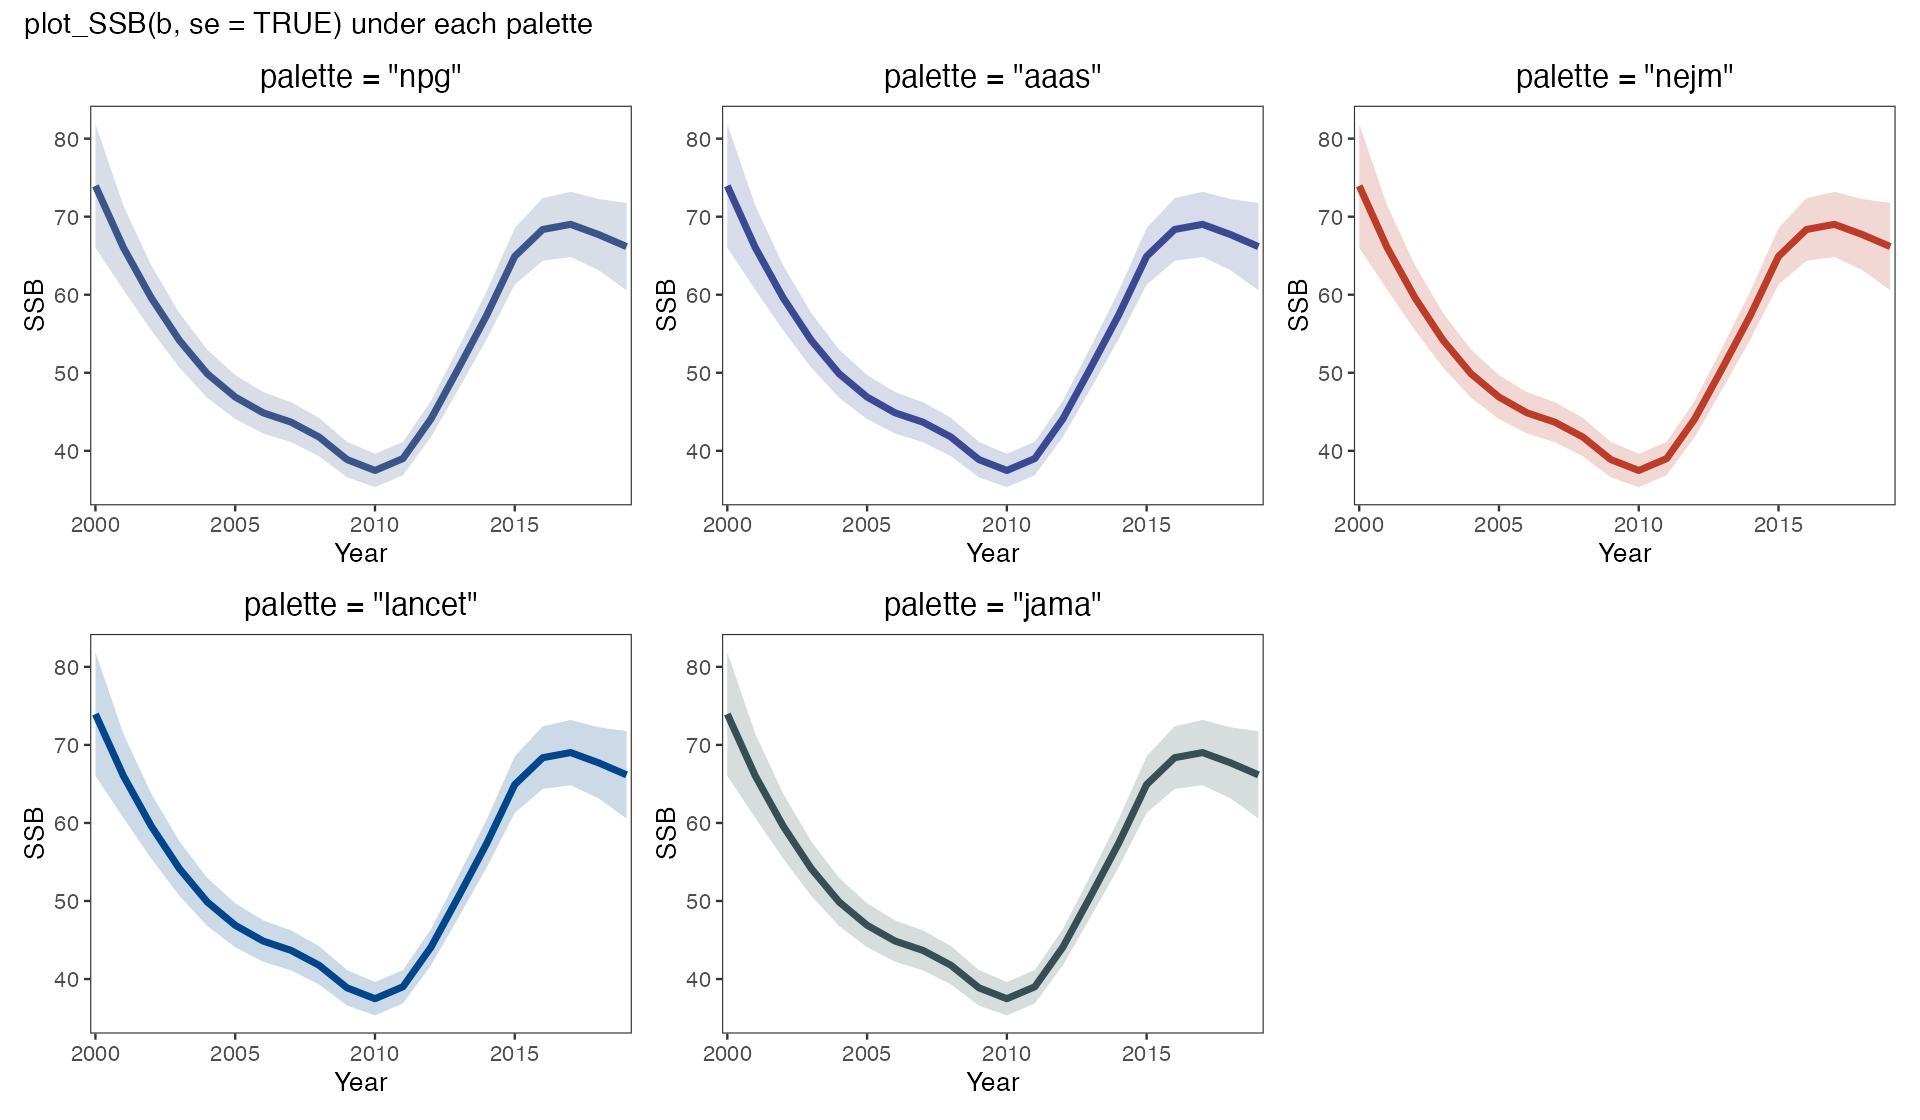
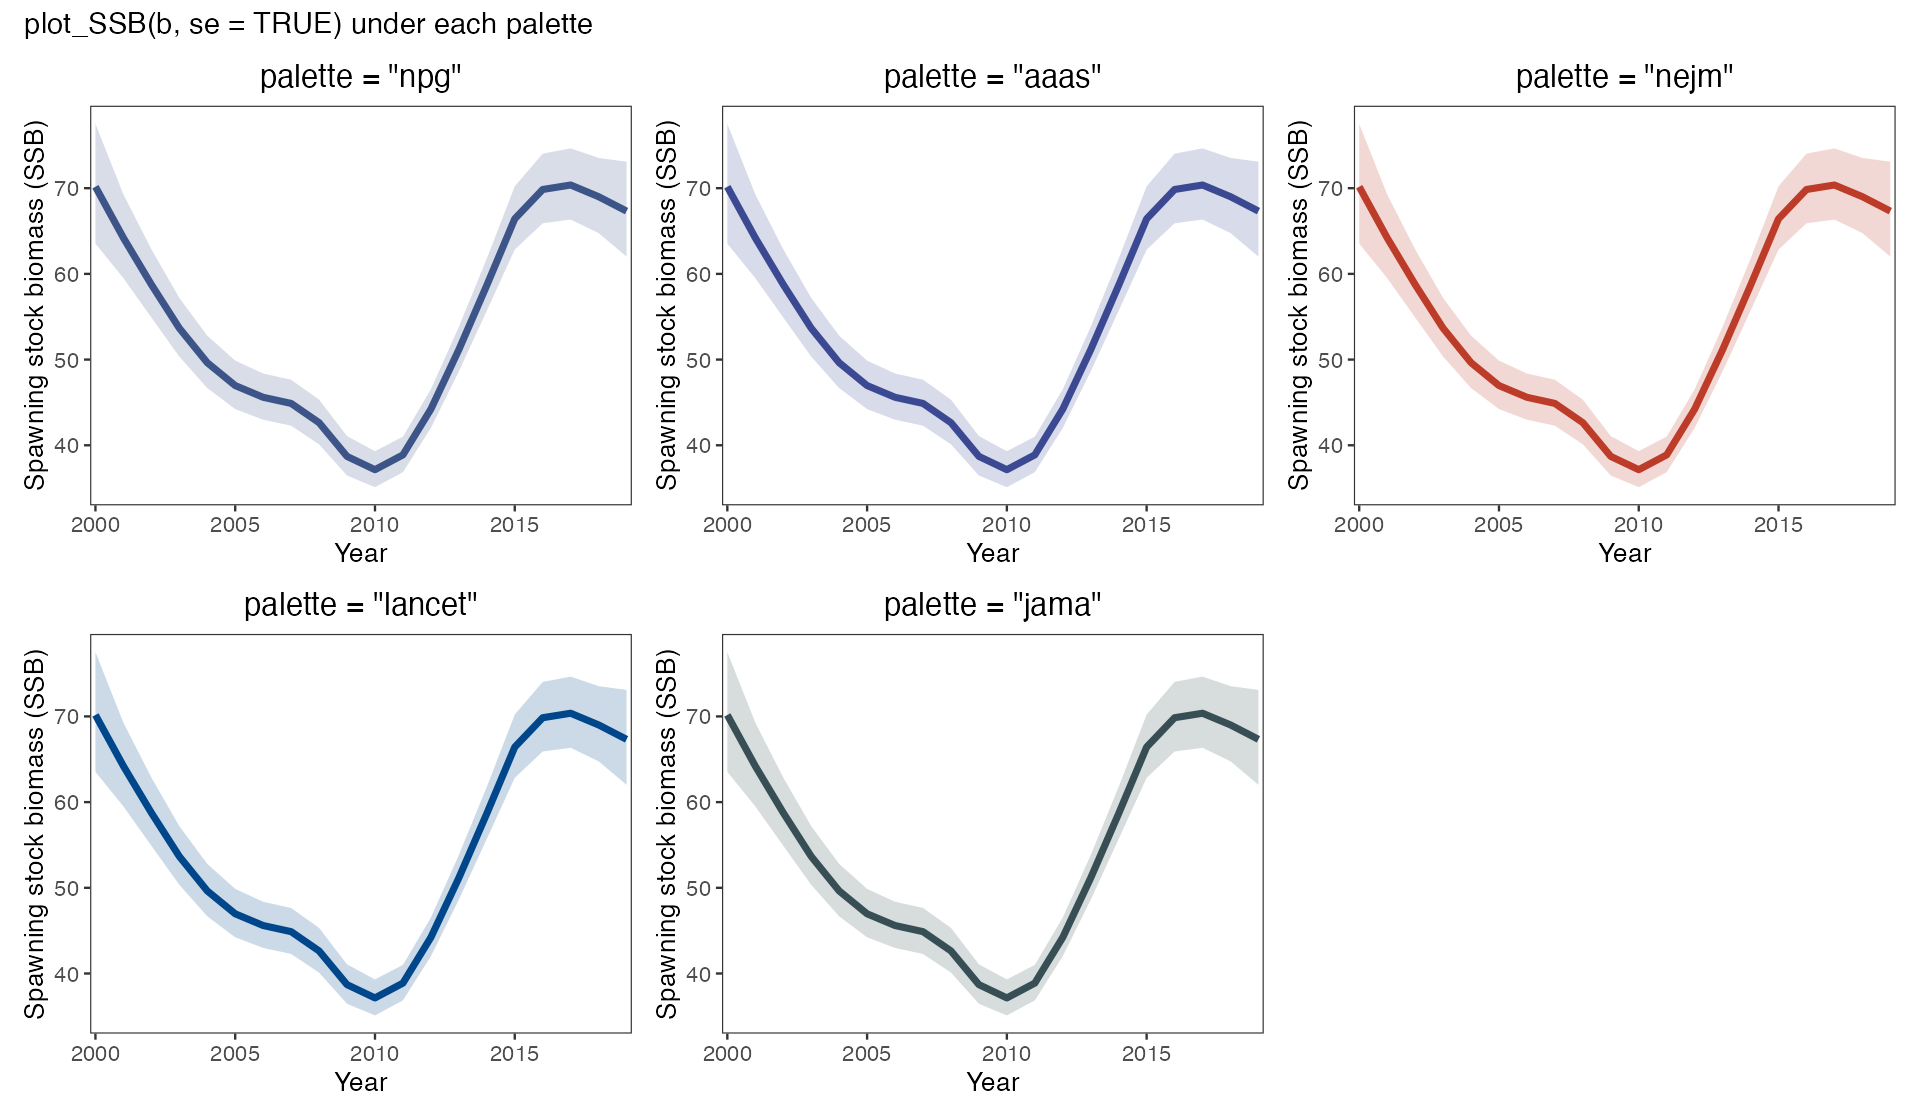
Redraw the palette and sparse-panel figures from the regenerated fits

Changed region(s): [[0.0, 0.0938, 1.0, 0.4375], [0.0, 0.5938, 0.5625, 0.9062], [0.5625, 0.5938, 0.6562, 0.8125]]

diff --git a/docs/BOOK.md b/docs/BOOK.md
@@ -1632,7 +1632,7 @@ plot_SSB(one_period, se = TRUE, x_breaks = one_period$year) +
   ggplot2::coord_cartesian(xlim = one_period$year + c(-0.5, 0.5))
 ```
 
-![Displaying a single saved estimate](https://github.com/FanZhang-LAB-SHOU/ALSCL/blob/main/docs/figures/sparse-panels/single-period-SSB.png?raw=true&v=f0e874a94dee)
+![Displaying a single saved estimate](https://github.com/FanZhang-LAB-SHOU/ALSCL/blob/main/docs/figures/sparse-panels/single-period-SSB.png?raw=true&v=654007fc5aa0)
 
 
 
@@ -2072,7 +2072,7 @@ plot_ridges(ridge_example, ridges_scale = 1,
   x_breaks = seq(10, 90, 20))
 ```
 
-![Missing boundary length bins](https://github.com/FanZhang-LAB-SHOU/ALSCL/blob/main/docs/figures/sparse-panels/ridges-missing-edges.png?raw=true&v=b91666c9a782)
+![Missing boundary length bins](https://github.com/FanZhang-LAB-SHOU/ALSCL/blob/main/docs/figures/sparse-panels/ridges-missing-edges.png?raw=true&v=b5f6fb20bdef)
 
 
 
@@ -2686,7 +2686,7 @@ The default palette is ggsci NPG: navy estimates, vermilion observations, and na
 
 The figure shows the five palettes `acl_theme_set()` accepts. In each row the first labelled colour draws lines, intervals and points of single-model plots, the second draws observations and the second model in comparisons, and the third draws smoothers; the remaining colours are used in order when a plot needs more groups, for example the peels of a retrospective. The next figure shows the same comparison plot under every palette, so you can pick one by eye; `docs/figures/palettes/ssb_by_palette.png` in the repository shows a single-model plot in the same way.
 
-![各色板下的 plot_compare_ts(a, b, quantities = "SSB", se = TRUE) / plot_compare_ts(a, b, quantities = "SSB", se = TRUE) under each palette](https://github.com/FanZhang-LAB-SHOU/ALSCL/blob/main/docs/figures/palettes/compare_by_palette.png?raw=true&v=a267f422e5a1)
+![各色板下的 plot_compare_ts(a, b, quantities = "SSB", se = TRUE) / plot_compare_ts(a, b, quantities = "SSB", se = TRUE) under each palette](https://github.com/FanZhang-LAB-SHOU/ALSCL/blob/main/docs/figures/palettes/compare_by_palette.png?raw=true&v=d601aa110dce)
 
 | 设置 / Setting | 范围与优先级 / Scope and precedence |
 |---|---|
@@ -2927,7 +2927,7 @@ acl_theme()
 acl_theme("line_color")
 ```
 
-![示例图 / Example figure: `plot_SSB(b, se = TRUE) under each palette of acl_theme_set()`](https://github.com/FanZhang-LAB-SHOU/ALSCL/blob/main/docs/figures/palettes/ssb_by_palette.png?raw=true&v=3e6eab644390)
+![示例图 / Example figure: `plot_SSB(b, se = TRUE) under each palette of acl_theme_set()`](https://github.com/FanZhang-LAB-SHOU/ALSCL/blob/main/docs/figures/palettes/ssb_by_palette.png?raw=true&v=51b0d14a0b2a)
 
 <a id="acl_theme_reset"></a>
 ## `acl_theme_reset()`

diff --git a/docs/wiki/13-Colors-and-Export.md b/docs/wiki/13-Colors-and-Export.md
@@ -42,7 +42,7 @@ The default palette is ggsci NPG: navy estimates, vermilion observations, and na
 
 The figure shows the five palettes `acl_theme_set()` accepts. In each row the first labelled colour draws lines, intervals and points of single-model plots, the second draws observations and the second model in comparisons, and the third draws smoothers; the remaining colours are used in order when a plot needs more groups, for example the peels of a retrospective. The next figure shows the same comparison plot under every palette, so you can pick one by eye; `docs/figures/palettes/ssb_by_palette.png` in the repository shows a single-model plot in the same way.
 
-![各色板下的 plot_compare_ts(a, b, quantities = "SSB", se = TRUE) / plot_compare_ts(a, b, quantities = "SSB", se = TRUE) under each palette](https://github.com/FanZhang-LAB-SHOU/ALSCL/blob/main/docs/figures/palettes/compare_by_palette.png?raw=true&v=a267f422e5a1)
+![各色板下的 plot_compare_ts(a, b, quantities = "SSB", se = TRUE) / plot_compare_ts(a, b, quantities = "SSB", se = TRUE) under each palette](https://github.com/FanZhang-LAB-SHOU/ALSCL/blob/main/docs/figures/palettes/compare_by_palette.png?raw=true&v=d601aa110dce)
 
 | 设置 / Setting | 范围与优先级 / Scope and precedence |
 |---|---|

diff --git a/docs/wiki/14-Function-Reference.md b/docs/wiki/14-Function-Reference.md
@@ -122,7 +122,7 @@ acl_theme()
 acl_theme("line_color")
 ```
 
-![示例图 / Example figure: `plot_SSB(b, se = TRUE) under each palette of acl_theme_set()`](https://github.com/FanZhang-LAB-SHOU/ALSCL/blob/main/docs/figures/palettes/ssb_by_palette.png?raw=true&v=3e6eab644390)
+![示例图 / Example figure: `plot_SSB(b, se = TRUE) under each palette of acl_theme_set()`](https://github.com/FanZhang-LAB-SHOU/ALSCL/blob/main/docs/figures/palettes/ssb_by_palette.png?raw=true&v=51b0d14a0b2a)
 
 <a id="acl_theme_reset"></a>
 ## `acl_theme_reset()`

diff --git a/docs/wiki/08-Population-Plots.md b/docs/wiki/08-Population-Plots.md
@@ -291,7 +291,7 @@ plot_SSB(one_period, se = TRUE, x_breaks = one_period$year) +
   ggplot2::coord_cartesian(xlim = one_period$year + c(-0.5, 0.5))
 ```
 
-![Displaying a single saved estimate](https://github.com/FanZhang-LAB-SHOU/ALSCL/blob/main/docs/figures/sparse-panels/single-period-SSB.png?raw=true&v=f0e874a94dee)
+![Displaying a single saved estimate](https://github.com/FanZhang-LAB-SHOU/ALSCL/blob/main/docs/figures/sparse-panels/single-period-SSB.png?raw=true&v=654007fc5aa0)
 
 
 

diff --git a/docs/wiki/09-Growth-and-Mortality.md b/docs/wiki/09-Growth-and-Mortality.md
@@ -311,7 +311,7 @@ plot_ridges(ridge_example, ridges_scale = 1,
   x_breaks = seq(10, 90, 20))
 ```
 
-![Missing boundary length bins](https://github.com/FanZhang-LAB-SHOU/ALSCL/blob/main/docs/figures/sparse-panels/ridges-missing-edges.png?raw=true&v=b91666c9a782)
+![Missing boundary length bins](https://github.com/FanZhang-LAB-SHOU/ALSCL/blob/main/docs/figures/sparse-panels/ridges-missing-edges.png?raw=true&v=b5f6fb20bdef)
 
 
 
